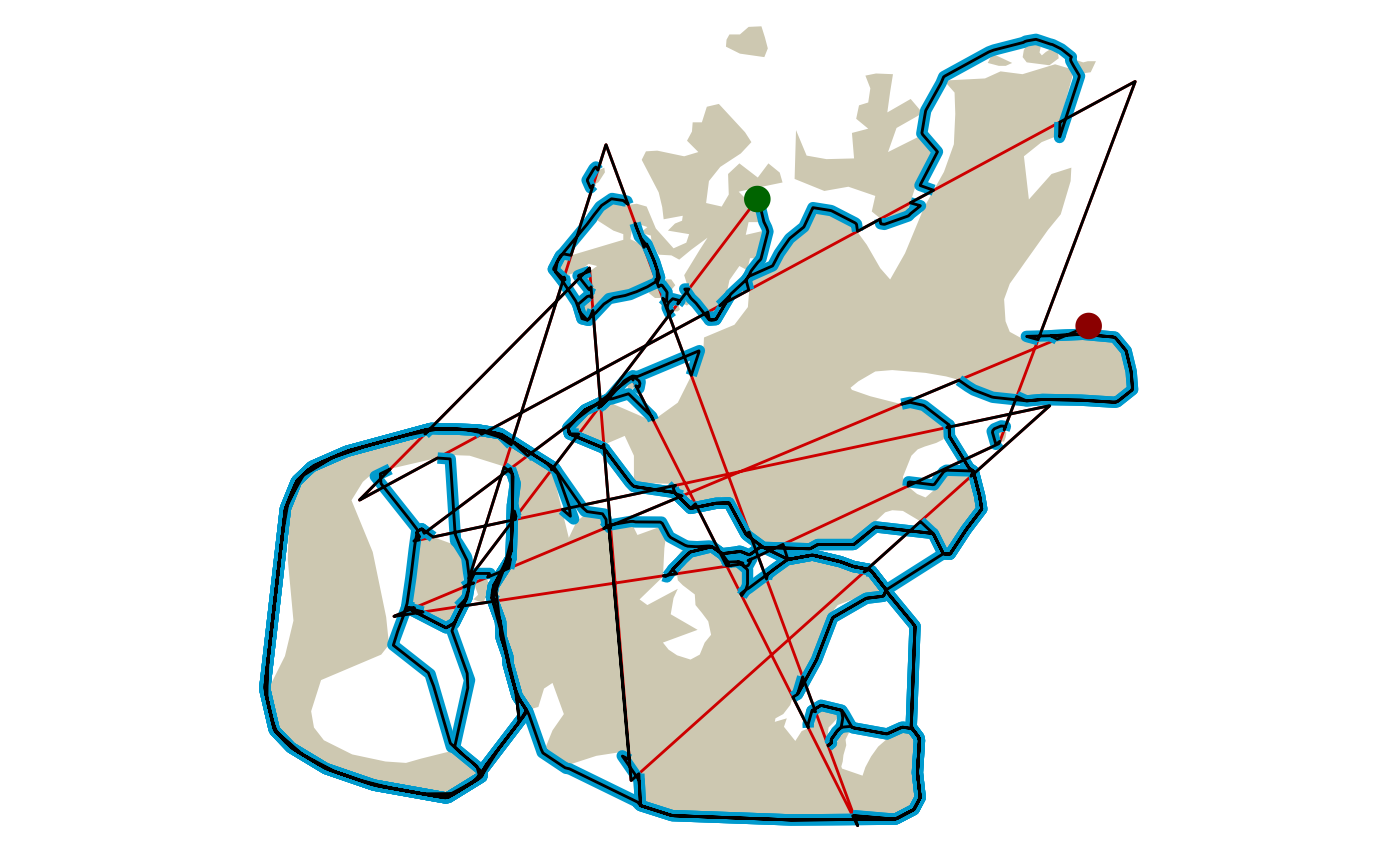
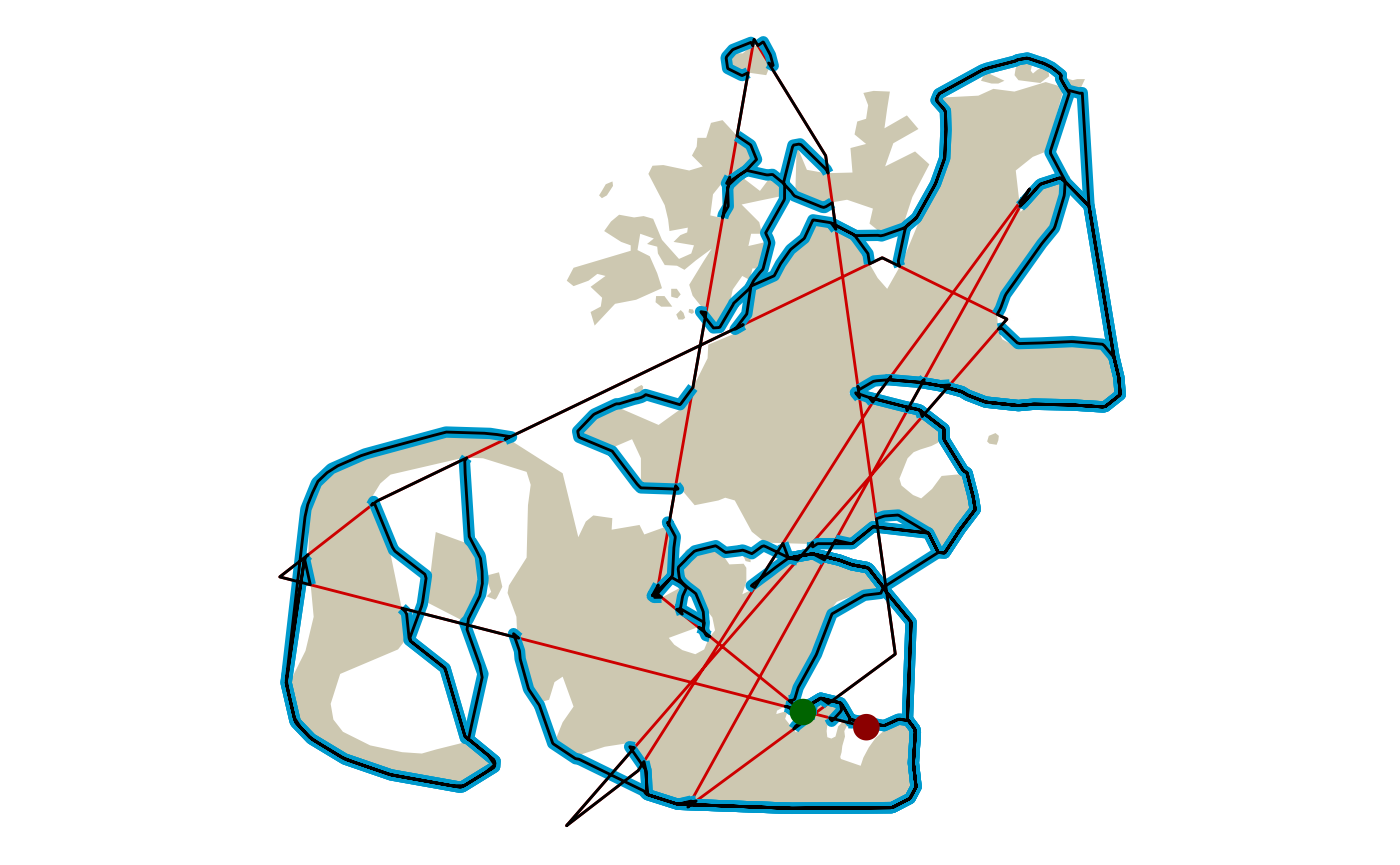
pkgdown update

Changed region(s): [[0.1843, 0.0312, 0.8293, 0.9676], [0.4914, 0.0312, 0.5529, 0.0936], [0.3379, 0.4058, 0.3686, 0.437]]

diff --git a/docs/articles/reroute_demo.html b/docs/articles/reroute_demo.html
@@ -149,20 +149,20 @@
 <div class="sourceCode" id="cb6"><pre class="downlit sourceCode r">
 <code class="sourceCode R"><span class="va">segs_tbl</span> <span class="op">&lt;-</span> <span class="fu"><a href="../reference/get_barrier_segments.html">get_barrier_segments</a></span><span class="op">(</span><span class="va">track_pts</span>,<span class="va">land_barrier</span><span class="op">)</span>
 <span class="va">segs_tbl</span>
-<span class="co">#&gt; # A tibble: 48 x 6</span>
+<span class="co">#&gt; # A tibble: 31 x 6</span>
 <span class="co">#&gt;      sid start_idx end_idx n_pts            start_pt              end_pt</span>
 <span class="co">#&gt;    &lt;int&gt;     &lt;dbl&gt;   &lt;dbl&gt; &lt;dbl&gt;         &lt;POINT [m]&gt;         &lt;POINT [m]&gt;</span>
-<span class="co">#&gt;  1     1        12     159   146 (84452.18 955187.5) (82013.54 951978.5)</span>
-<span class="co">#&gt;  2     2       185     197    11 (81582.21 951410.9) (81383.14 951148.9)</span>
-<span class="co">#&gt;  3     3       368     414    45 (78546.35 947415.9) (77783.23 946411.7)</span>
-<span class="co">#&gt;  4     4       477     559    81  (76738.1 945036.4) (75377.77 943246.3)</span>
-<span class="co">#&gt;  5     5       831     864    32 (74920.96 945140.2)   (75193.36 946003)</span>
-<span class="co">#&gt;  6     6      1110    1142    31   (77223.97 952435) (77488.11 953271.7)</span>
-<span class="co">#&gt;  7     7      1245    1267    21 (78338.32 955964.8)   (78519.92 956540)</span>
-<span class="co">#&gt;  8     8      1394    1422    27 (79679.79 955224.9) (79945.86 954504.8)</span>
-<span class="co">#&gt;  9     9      1458    1506    47 (80287.96 953578.9) (80744.08 952344.4)</span>
-<span class="co">#&gt; 10    10      1517    1534    16 (80848.61 952061.5) (81010.15 951624.2)</span>
-<span class="co">#&gt; # … with 38 more rows</span></code></pre></div>
+<span class="co">#&gt;  1     1        35     229   193 (85816.52 935900.5) (82660.07 938461.4)</span>
+<span class="co">#&gt;  2     2       257     297    39    (82204.5 938831)   (81553.68 939359)</span>
+<span class="co">#&gt;  3     3       311     348    36  (81325.9 939543.8) (80723.89 940032.2)</span>
+<span class="co">#&gt;  4     4       376     491   114 (80596.65 940524.6) (81012.86 942897.9)</span>
+<span class="co">#&gt;  5     5       568     758   189 (81291.53 944486.9) (81979.17 948407.9)</span>
+<span class="co">#&gt;  6     6       903    1086   182 (82503.94 951400.2) (83166.25 955176.8)</span>
+<span class="co">#&gt;  7     7      1165    1245    79 (83452.16 956807.1)   (83741.69 958458)</span>
+<span class="co">#&gt;  8     8      1367    1419    51 (84183.23 960975.7) (84371.42 962048.8)</span>
+<span class="co">#&gt;  9     9      1446    1485    38 (84573.77 962059.1) (85002.02 961363.2)</span>
+<span class="co">#&gt; 10    10      1726    1783    56 (87377.34 956965.4) (87542.57 955782.6)</span>
+<span class="co">#&gt; # … with 21 more rows</span></code></pre></div>
 <p>Our next step is to create a visibility graph. This is, essentially, our road network for our marine environment. At some point, I’ll provide greater detail on this process. But, in simple terms, we connect all of the vertices for our barrier polygon with a Delaunay triangle mesh and, then, remove any of the edges that cross land. Our <code><a href="../reference/prt_visgraph.html">prt_visgraph()</a></code> function returns a <em>SpatialLinesNetwork</em> created with the <a href="https://docs.ropensci.org/stplanr">stplanr</a> package.</p>
 <p>With our network created, we need to identify the nearest node on the network for the start and end points of each identified segment.</p>
 <p>NOTE: there is currently an error when the nearest node for the start and end is the same node when calculating the shortest path between them. I need to explore this further.</p>
@@ -193,6 +193,7 @@
   <span class="va">fix_pts</span> <span class="op">&lt;-</span> <span class="fu"><a href="../reference/prt_orient_line.html">prt_orient_line</a></span><span class="op">(</span><span class="va">segs_tbl</span><span class="op">$</span><span class="va">start_pt</span><span class="op">[</span><span class="va">i</span><span class="op">]</span>, <span class="va">fix_pts</span><span class="op">)</span>
   <span class="va">pts_list</span><span class="op">[[</span><span class="va">i</span><span class="op">]</span><span class="op">]</span> <span class="op">&lt;-</span> <span class="fu">sf</span><span class="fu">::</span><span class="fu"><a href="https://r-spatial.github.io/sf/reference/sf.html">st_sf</a></span><span class="op">(</span>id <span class="op">=</span> <span class="va">fix_idx</span>, geometry <span class="op">=</span> <span class="va">fix_pts</span> <span class="op">)</span>
 <span class="op">}</span>
+<span class="co">#&gt; point order reversed</span>
 
 <span class="va">fixed_pts</span> <span class="op">&lt;-</span> <span class="fu"><a href="https://rdrr.io/r/base/do.call.html">do.call</a></span><span class="op">(</span><span class="va">rbind</span>, <span class="va">pts_list</span><span class="op">)</span> <span class="op">%&gt;%</span> 
   <span class="fu">tibble</span><span class="fu">::</span><span class="fu"><a href="https://tibble.tidyverse.org/reference/as_tibble.html">as_tibble</a></span><span class="op">(</span><span class="op">)</span>
